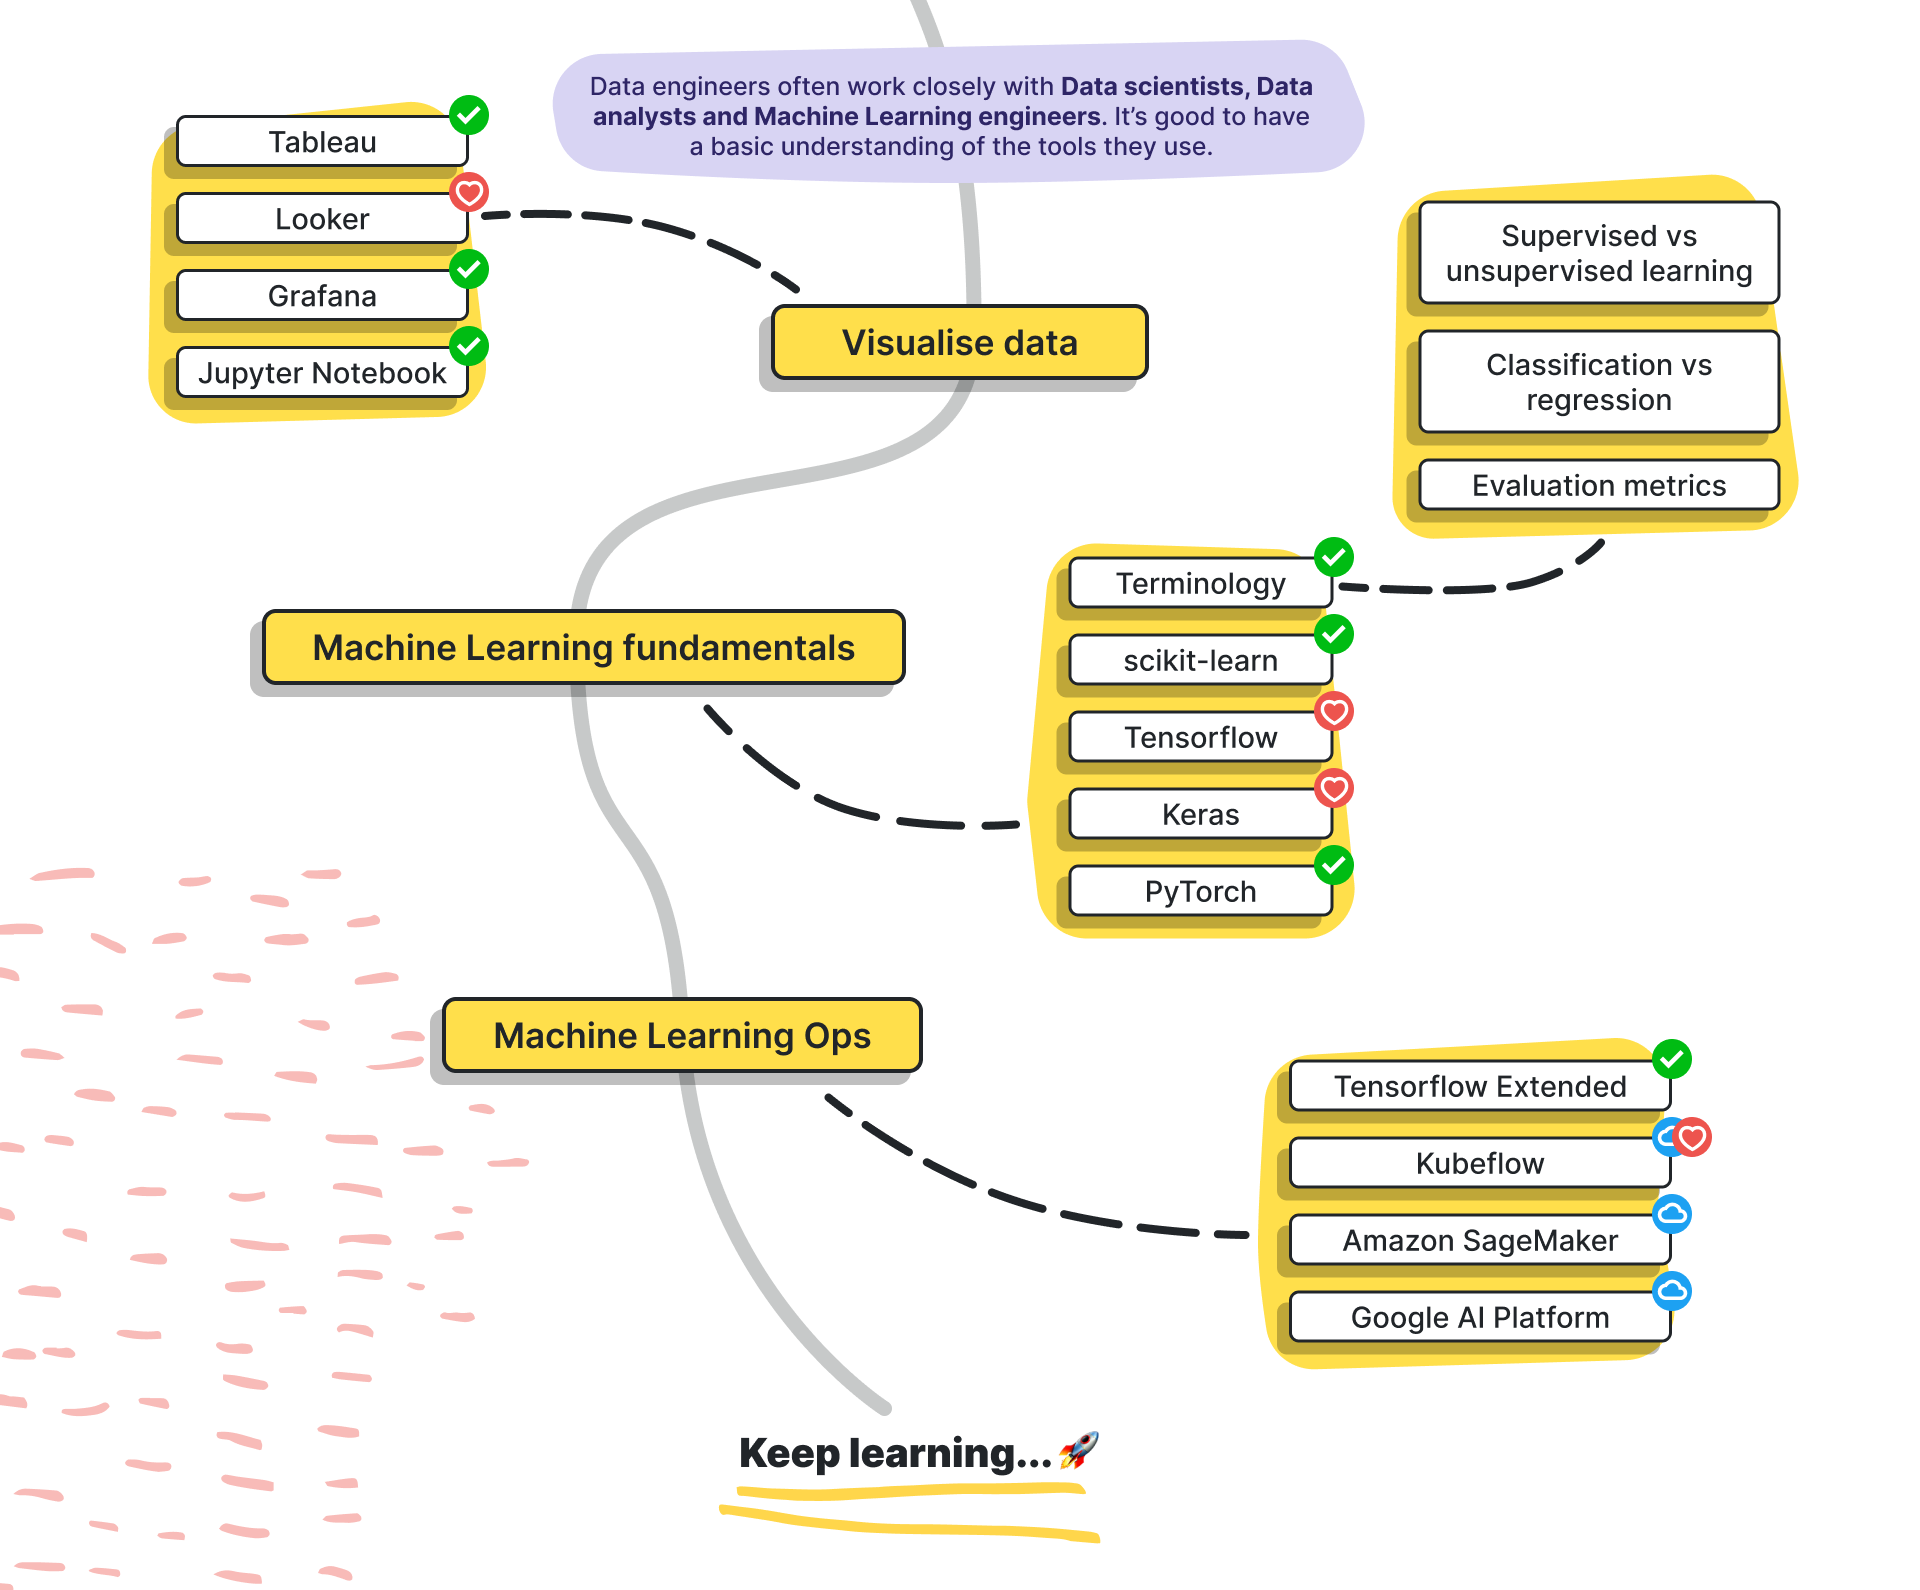
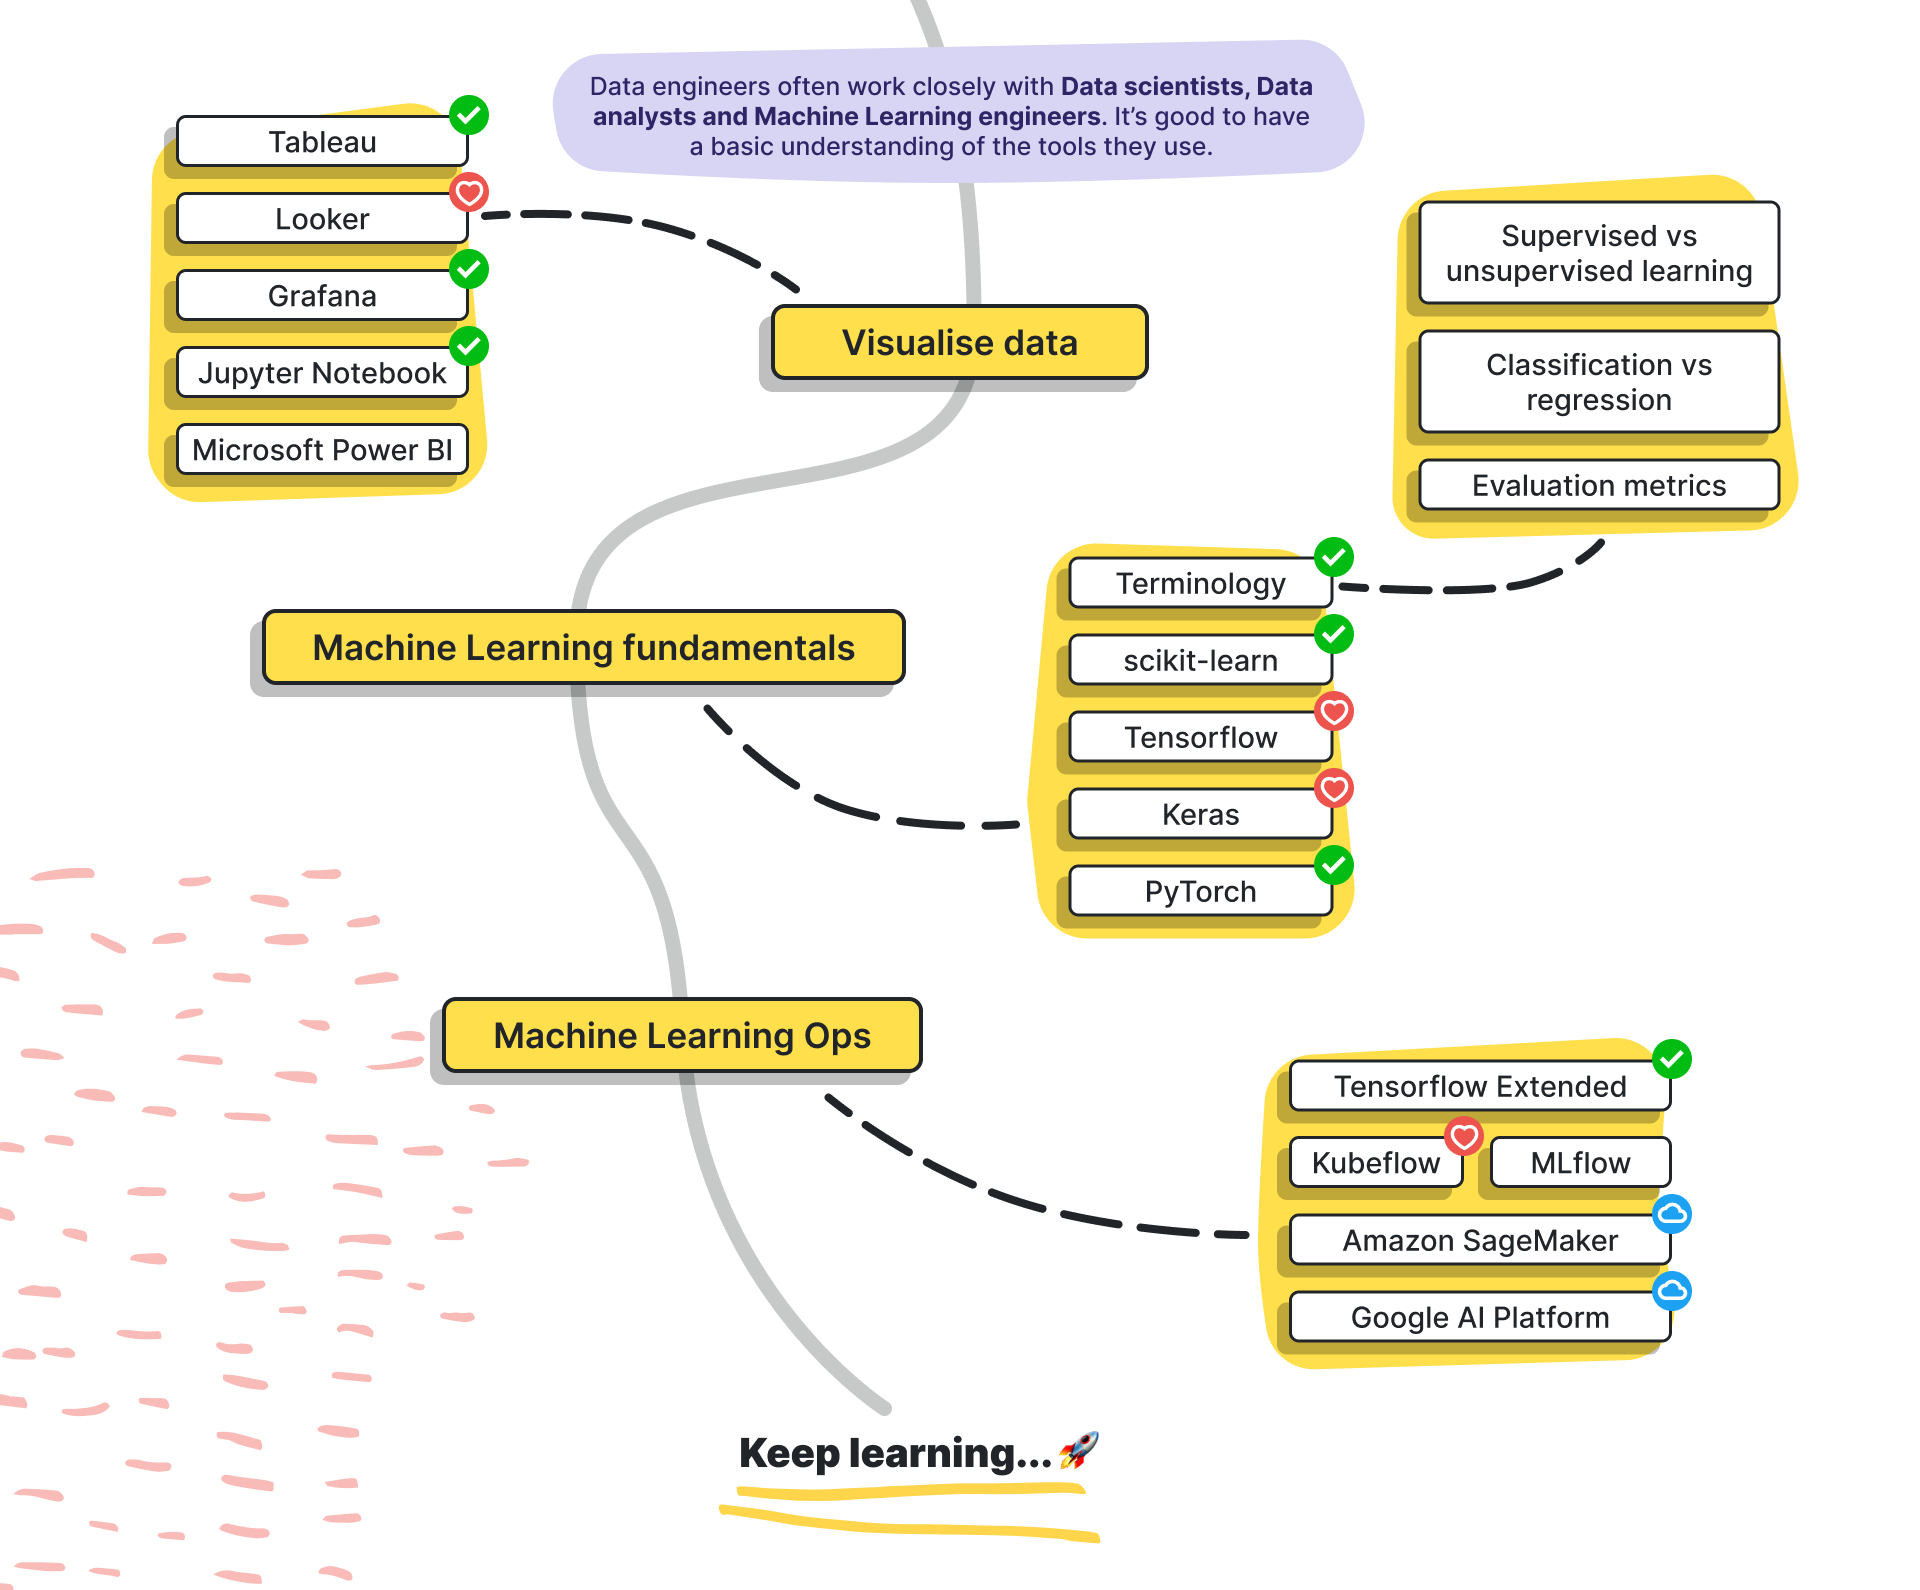
2021/v1.1 (#33)
* Create CHANGELOG for version 2021

* Initial text version for visually impaired users

* Add 2021 updates (see CHANGELOG)

* Include link to text version

* Format markdown

* Format markdown

Changed region(s): [[0.0625, 0.2465, 0.25, 0.339], [0.6875, 0.7088, 0.9062, 0.7704]]

diff --git a/text/roadmap.md b/text/roadmap.md
@@ -1,0 +1,175 @@
+> Text version for visually impaired users
+
+# Data Engineer in 2021
+
+* CS fundamentals
+	* Basic terminal usage [general recommendation]
+	* Data structures & algorithms [general recommendation]
+	* APIs [general recommendation]
+	* REST [general recommendation]
+	* Structured vs unstructured data [general recommendation]
+	* Serialisation
+	* Linux [general recommendation]
+		* CLI
+		* Vim
+		* Shell scripting
+		* Cronjobs
+	* How does the computer work? [general recommendation]
+	* How does the Internet work? [general recommendation]
+	* Git — Version control [general recommendation]
+	* Math & statistics basics [general recommendation]
+
+*Note: Git is used for tracking changes in source code and coordinating work among programmers. In your day to day work you will use Git server as a service like GitHub, GitLab or Bitbucket.*
+
+* Learn a programming language
+	* Python [personal recommendation]
+	* Java [general recommendation]
+	* Scala
+	* Go
+
+*Note: Learn how to write clean, extensibile code. Spend some time understanding programming paradigms (functional vs. OOP) and best practices (design patterns, YAGNI, stateful vs stateless applications). Get familiar with an IDE or code editor like VSCode.*
+
+* Testing
+	* Unit testing [general recommendation]
+	* Integration testing [general recommendation]
+	* Functional testing [general recommendation]
+
+* Database fundamentals
+	* SQL [general recommendation]
+	* Normalisation [general recommendation]
+	* ACID transactions [general recommendation]
+	* CAP theorem [general recommendation]
+	* OLTP vs OLAP [general recommendation]
+	* Horizontal vs vertical scaling [general recommendation]
+	* Dimensional modeling [general recommendation]
+
+* Relational databases
+	* MySQL [general recommendation]
+	* PostgreSQL [general recommendation]
+	* MariaDB
+	* Amazon Aurora
+
+* Non-relational databases
+	* Document databases
+		* MongoDB [general recommendation]
+		* Elasticsearch [general recommendation]
+		* Apache CouchDB
+		* Azure CormosDB
+	* Wide column databases
+		* Apache Cassandra [general recommendation]
+		* Apache HBase [general recommendation]
+		* Google Cloud Bigtable [personal recommendation]
+	* Graph databases
+		* Neo4j
+		* Amazon Neptune
+	* Key-value stores
+		* Redis [personal recommendation]
+		* Memcached
+		* Amazon DynamoDB [general recommendation]
+
+*Note: Understand the difference between Document, Wide column, Graph and Key-value NoSQL databases. We recommend mastering one database from each category.*
+
+* Data warehouses
+	* Snowflake [general recommendation]
+	* Presto
+	* Apache Hive
+	* Apache Impala
+	* Amazon Redshift [general recommendation]
+	* Google BigQuery [personal recommendation]
+	* Azure Synapse
+	* ClickHouse
+
+* Object storage
+	* AWS S3 [general recommendation]
+	* Azure Blob Storage
+	* Google Cloud Storage
+
+* Cluster computing fundamentals
+	* Apache Hadoop [general recommendation]
+	* HDFS [general recommendation]
+	* MapReduce [general recommendation]
+	* Lambda & Kappa architectures
+	* Managed Hadoop [general recommendation]
+		* Amazon EMR
+		* Google Dataproc
+		* Azure Data Lake
+
+*Note: Most modern data processing frameworks are based on Apache Hadoop and MapReduce to some extent. Understanding these concepts can help you learn modern data processing frameworks much quicker.*
+
+* Data processing
+	* Batch
+		* Apache Pig [general recommendation]
+		* Apache Arrow
+		* data build tool [personal recommendation]
+	* Hybrid
+		* Apache Spark [general recommendation]
+		* Apache Beam [personal recommendation]
+		* Apache Flink [general recommendation]
+		* Apache NiFi
+	* Streaming
+		* Apache Kafka [personal recommendation]
+		* Apache Storm [general recommendation]
+		* Apache Samza
+		* Amazon Kinesis
+
+*Note: Hybrid frameworks are able to process both batch and streaming data. Batch data processing is often done by analytical data warehouse applications. See Data warehouses section for more.*
+
+* Messaging
+	* RabbitMQ [general recommendation]
+	* Apache ActiveMQ
+	* Amazon SNS & SQS
+	* Google PubSub
+	* Azure Service Bus
+
+* Workflow scheduling
+	* Apache Airflow [personal recommendation]
+	* Google Composer
+	* Apache Oozie
+	* Luigi
+
+*Note: Cloud Composer is a managed Apache Airflow service on Google Cloud Platform.*
+
+* Monitoring data pipelines
+	* Prometheus [general recommendation]
+	* Datadog [general recommendation]
+	* Sentry [general recommendation]
+	* StatsD
+
+* Networking
+	* Protocols [general recommendation]
+		* HTTP / HTTPS
+		* TCP
+		* SSH
+		* IP
+		* DNS
+	* Firewalls [general recommendation]
+	* VPN [general recommendation]
+	* VPC [general recommendation]
+
+* Infrastructure as Code
+	* Containers
+		* Docker [personal recommendation]
+		* LXC
+	* Container orchestration
+		* Kubernetes [general recommendation]
+		* Docker Swarm
+		* Apache Mesos
+		* Google Kubernetes Engine (GKE) [general recommendation]
+	* Infrastructure provisioning
+		* Terraform [personal recommendation]
+		* Pulumi
+		* AWS CDK [general recommendation]
+
+* CI/CD
+	* GitHub Actions [general recommendation]
+	* Jenkins [general recommendation]
+
+* Identity and access management
+	* Active Directory [general recommendation]
+	* Azure Active Directory
+
+* Data security & privacy
+	* Legal compliance [general recommendation]
+	* Encryption [general recommendation]
+	* Key management [general recommendation]
+	* Data governance & integrity

diff --git a/CHANGELOG.md b/CHANGELOG.md
@@ -1,0 +1,23 @@
+## Roadmap 2021
+
+### Update 2021-01-15
+
+* Added text version for visually impaired users (issue #10)
+* Math & statistics basics have been added to CS fundamentals (issue #22)
+* Dimensional modelling has been added to Database fundamentals
+* Added section for Object storage (issue #7)
+* Azure CosmosDB has been added to Document databases
+* Apache Impala has been moved from Batch processing to Data Warehouses
+* Azure Synapse Analytics (issue #18) and ClickHouse (issue #24) have been added to Data Warehouses
+* Lambda & Kappa architectures have been added to Cluster computing fundamentals (issue #31)
+* Azure Data Lake has been added to Managed Hadoop
+* Apache NiFi has been added to Hybrid data processing
+* Cloud specific messaging services have been added to Messaging (issue #8)
+* Luigi has been added to Workflow scheduling
+* AWS CDK has replaced AWS CloudFormation in Infrastructure provisioning (issue #4, issue #6)
+* Power BI has been added to data visualisation tools (issue #29)
+* MLflow has been added to Machine Learning Ops (issue #30)
+
+## Roadmap 2020
+
+[Modern Data Engineer Roadmap 2020](https://github.com/datastacktv/data-engineer-roadmap/tree/8b1ccdce4524961bfd37495de20117c47766b1eb)

diff --git a/text/extras.md b/text/extras.md
@@ -1,0 +1,29 @@
+> Text version for visually impaired users
+
+*Note: Data engineers often work closely with Data scientists, Data analysts and Machine Learning engineers. It’s good to have a basic understanding of the tools they use.*
+
+* Visualise data
+	* Tableau [general recommendation]
+    * Looker [personal recommendation]
+    * Grafana [general recommendation]
+    * Jupyter Notebook [general recommendation]
+    * Microsoft Power BI
+
+* Machine Learning fundamentals
+	* Terminology [general recommendation]
+		* Supervised vs unsupervised learning
+        * Classification vs regression
+        * Evaluation metrics
+    * scikit-learn [general recommendation]
+    * Tensorflow [personal recommendation]
+    * Keras [personal recommendation]
+    * PyTorch [general recommendation]
+
+* Machine Learning Ops
+    * Tensorflow Extended (TFX) [general recommendation]
+    * Kubeflow [personal recommendation]
+    * MLflow
+    * Amazon SageMaker
+    * Google Cloud AI Platform
+
+*Note: Keep learning...*

diff --git a/README.md b/README.md
@@ -4,7 +4,7 @@
 > Roadmap to becoming a data engineer in 2021
 
 [![Twitter](https://img.shields.io/badge/-Twitter-1DA1F2)](https://twitter.com/datastacktv)
-[![YouTube](https://img.shields.io/badge/-YouTube-FF0000)](https://www.youtube.com/channel/UCQSbqkMlvf_J949HDWxOt7Q)
+[![YouTube](https://img.shields.io/badge/-YouTube-FF0000)](http://youtube.com/c/datastacktv)
 [![Website](https://img.shields.io/badge/-Website-565CD8)](https://datastack.tv/)
 
 This roadmap aims to give a **complete picture of the modern data engineering landscape** and serve as a **study guide** for aspiring data engineers.
@@ -17,9 +17,13 @@ This roadmap aims to give a **complete picture of the modern data engineering la
 
 ***
 
+> [Text version for visually impaired users](text/roadmap.md)
+
 ![Data Engineer Roadmap](img/roadmap.png)
 
 ## Nice to have 😎
+
+> [Text version for visually impaired users](text/extras.md)
 
 ![Data Engineer Roadmap Extras](img/extras.png)
 
